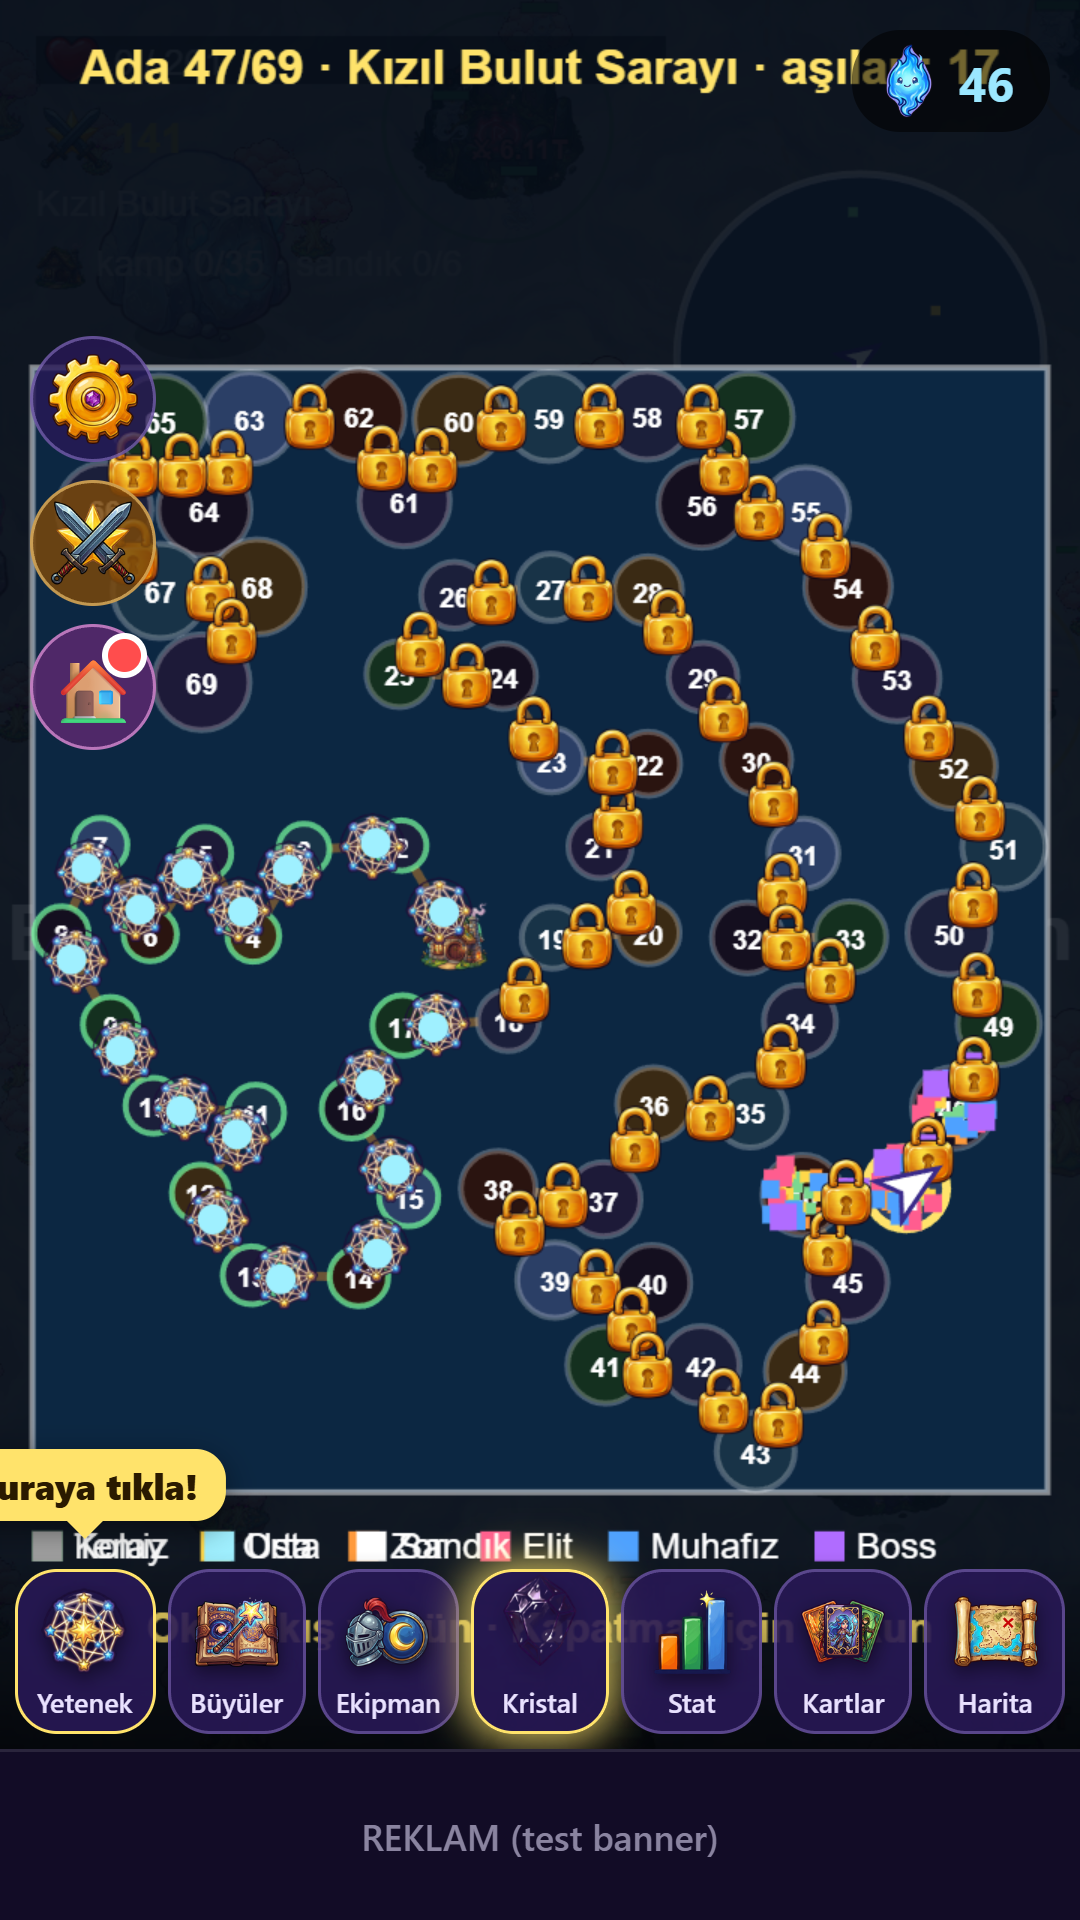
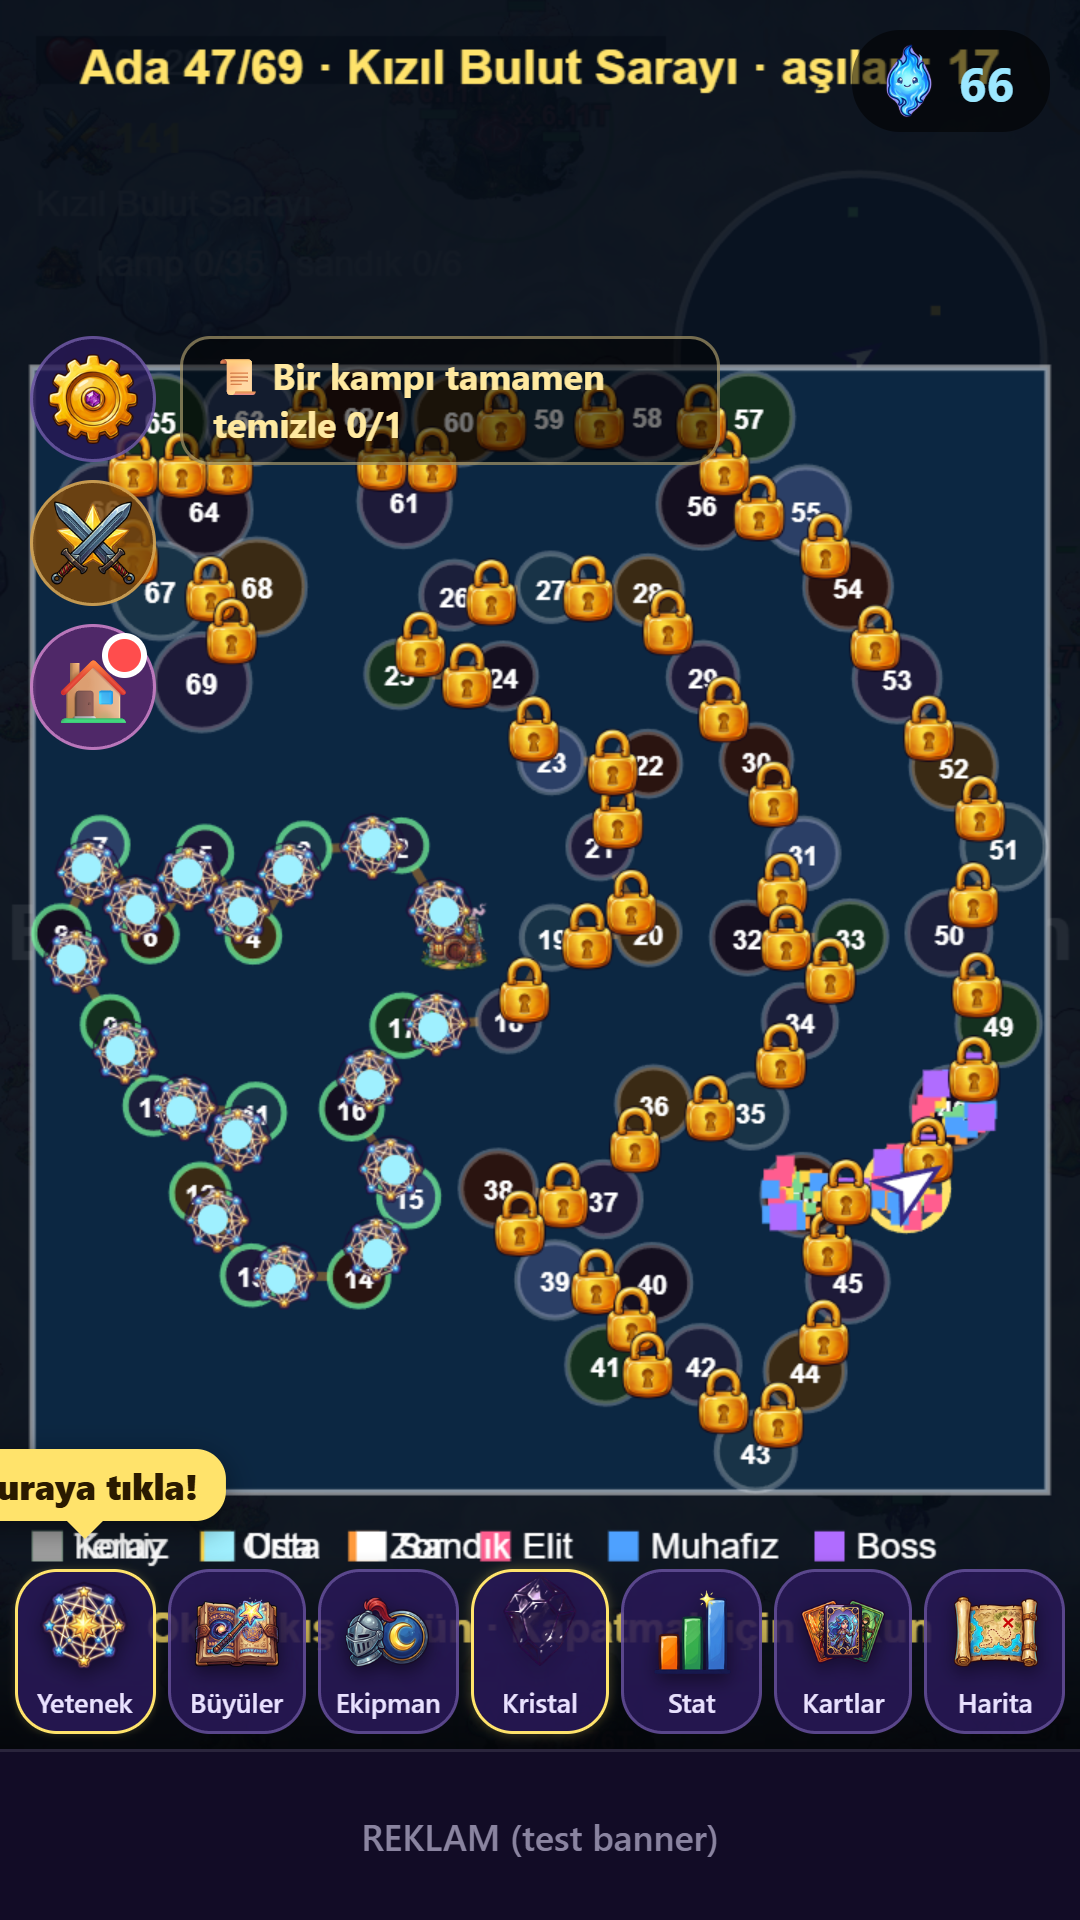
fix: yonlendirme oku dusmanin kendisini gosterir, gorev takipcisi daraldi; magaza metinleri ve ekran goruntuleri guncellendi (v0.14.2)

diff --git a/index.html b/index.html
@@ -90,7 +90,7 @@
   #btn-settings img { width: 32px; height: 32px; display: block; margin: 0 auto; }
   #btn-shop { position: fixed; left: 10px; top: 160px; width: 42px; height: 42px; padding: 4px; border-radius: 21px; background: rgba(120,70,10,.85); border: 1px solid rgba(255,210,120,.6); font-size: 22px; line-height: 1; }
   #btn-shop img { width: 30px; height: 30px; display: block; margin: 0 auto; }
-  #quest { position: fixed; left: 60px; top: 112px; max-width: 230px; z-index: 5; display: none; padding: 5px 10px; border-radius: 10px; background: rgba(0,0,0,.55); border: 1px solid rgba(255,230,160,.45); color: #ffe9a0; font-size: 12px; font-weight: 700; line-height: 1.3; cursor: pointer; }
+  #quest { position: fixed; left: 60px; top: 112px; max-width: 158px; z-index: 5; display: none; padding: 5px 10px; border-radius: 10px; background: rgba(0,0,0,.55); border: 1px solid rgba(255,230,160,.45); color: #ffe9a0; font-size: 12px; font-weight: 700; line-height: 1.3; cursor: pointer; }
   #btn-house { position: fixed; left: 10px; top: 208px; width: 42px; height: 42px; padding: 4px; border-radius: 21px; background: rgba(90,40,110,.85); border: 1px solid rgba(255,170,240,.6); font-size: 22px; line-height: 1; }
   #btn-house[data-badge="1"]::after { content: ''; position: absolute; right: 2px; top: 2px; width: 11px; height: 11px; border-radius: 50%; background: #ff4d4d; border: 2px solid #fff; }
   /* açılış ekranı */

diff --git a/dist/game.js b/dist/game.js
@@ -2965,7 +2965,23 @@ export class Game {
                 }
             }
             const pick = best ?? weak;
-            return pick ? { x: pick.x, y: pick.y, label: 'Sıradaki düşman', color: best ? '#7bff9a' : '#ffb36b' } : null;
+            if (!pick)
+                return null;
+            // okun gösterdiği yer kampın evi değil, kampın canlı düşmanının kendisi (en yakını); henüz sahaya çıkmadıysa kamp noktası
+            let tx = pick.x;
+            let ty = pick.y;
+            let ed = Infinity;
+            for (const e of this.enemies) {
+                if (e.sp !== pick.id || e.hp <= 0)
+                    continue;
+                const d = Math.hypot(e.x - this.px, e.y - this.py);
+                if (d < ed) {
+                    ed = d;
+                    tx = e.x;
+                    ty = e.y;
+                }
+            }
+            return { x: tx, y: ty, label: 'Sıradaki düşman', color: best ? '#7bff9a' : '#ffb36b' };
         }
         if (reg < last) {
             if (this.passedGate(reg))

diff --git a/src/game.ts b/src/game.ts
@@ -2578,7 +2578,17 @@ export class Game {
         if (d < bd) { bd = d; best = s; }
       }
       const pick = best ?? weak;
-      return pick ? { x: pick.x, y: pick.y, label: 'Sıradaki düşman', color: best ? '#7bff9a' : '#ffb36b' } : null;
+      if (!pick) return null;
+      // okun gösterdiği yer kampın evi değil, kampın canlı düşmanının kendisi (en yakını); henüz sahaya çıkmadıysa kamp noktası
+      let tx = pick.x;
+      let ty = pick.y;
+      let ed = Infinity;
+      for (const e of this.enemies) {
+        if (e.sp !== pick.id || e.hp <= 0) continue;
+        const d = Math.hypot(e.x - this.px, e.y - this.py);
+        if (d < ed) { ed = d; tx = e.x; ty = e.y; }
+      }
+      return { x: tx, y: ty, label: 'Sıradaki düşman', color: best ? '#7bff9a' : '#ffb36b' };
     }
     if (reg < last) {
       if (this.passedGate(reg)) return null; // kapı geçildi: ok kalkar

diff --git a/sw.js b/sw.js
@@ -1,5 +1,5 @@
 // Çevrimdışı çalışma: önce önbellek, arkada güncelle (stale-while-revalidate).
-const CACHE = 'hexling-v33';
+const CACHE = 'hexling-v34';
 const CORE = ['index.html', 'manifest.webmanifest', 'dist/main.js', 'dist/game.js', 'dist/data.js', 'dist/audio.js', 'dist/settings.js', 'dist/i18n.js', 'dist/scenery.js', 'dist/version.js', 'dist/billing.js', 'dist/ads.js', 'dist/fight.js', 'dist/house.js', 'dist/meta.js', 'dist/quests.js', 'dist/story.js', 'dist/notify.js', 'assets/manifest.json', 'assets/title_bg.jpg', 'icons/icon-192.png'];
 
 self.addEventListener('install', (e) => {

diff --git a/dist/version.js b/dist/version.js
@@ -1,4 +1,4 @@
 /** Sürüm bilgisi: açılış sayfasında ve stat sayfasında gösterilir. Her yayında güncelle. */
-export const VERSION = '0.14.1';
+export const VERSION = '0.14.2';
 export const BUILD = '2026-10-03';
 export const CODENAME = 'Yaşayan Ev';

diff --git a/src/version.ts b/src/version.ts
@@ -1,4 +1,4 @@
 /** Sürüm bilgisi: açılış sayfasında ve stat sayfasında gösterilir. Her yayında güncelle. */
-export const VERSION = '0.14.1';
+export const VERSION = '0.14.2';
 export const BUILD = '2026-10-03';
 export const CODENAME = 'Yaşayan Ev';

diff --git a/store/listing_tr.md b/store/listing_tr.md
@@ -22,29 +22,34 @@ MACERA
 • 40 ücretsiz ada, 8 farklı biyom: Mantar Ormanı, Bataklık, Buz Mağarası, Kızıl Çöl, Kristal Vadisi, Volkan, Bulut Sarayı, Gölge Diyarı.
 • 4 büyü: Yıldız Değneği, Uçan Süpürge, Kaynar İksir, Büyülü Kepçe. Hasar türleri (kesme, delme, ezme), düşman zayıflıkları ve büyü kombolarıyla (+%30 hasar) ustalaş.
 • Yetenek ağacı, kristaller, miğfer ve kalkanlar, usta cadı eğitimleri, gizli sandıklar.
-• Her 3 adada bir korkunç canavar; kale ve yapıları yıkıp kalıcı güç kazan.
-• Günlük: her boss kırık aynanın bir sayfasını açar. 69 sayfalık gizem sonunda rakip cadının kim olduğunu ortaya çıkarır.
+• Her 3 adada bir korkunç canavar. Yenilen bosslar günde bir kez 3 kat güçlü "zor boss" olarak döner, büyük ganimet bırakır.
+• Karakter kartlarını topla: her düşmanın vurduğu ve zayıf olduğu hasar türünü öğren, koleksiyon ödülleri kazan.
+• Yönlendirme oku seni sıradaki düşmana götürür; 8 adımlık başlangıç görevleri ilk dakikalarda elinden tutar.
+• Günlük: her boss kırık aynanın bir sayfasını açar, önemli anlarda animasyonlu hikâye sahneleri izlersin. 69 sayfalık gizem sonunda rakip cadının kim olduğunu ortaya çıkarır.
 
 CADI EVİ
-• Kediyi sev, bahçeni sula, iksir demle: evde yaptığın işler kalıcı güç kazandırır.
-• Kazanın sen yokken ruh biriktirir; her gün gel, giriş serin büyüdükçe ödüller artar.
+• Kediyi sev, kedi maması al ve düzenli besle, bahçeni sula, iksir demle: evde yaptığın işler kalıcı güç kazandırır.
+• Kazan sen yokken ruh biriktirir; oyun açıkken de dururken azar azar kazanırsın. Her gün gel, giriş serin büyüdükçe ödüller artar.
+• Günlük 3 görev, bildirimlerle iksirin hazır olduğunda ve kedin acıktığında haber alırsın.
 
 DÖVÜŞ ARENASI
 • Street Fighter tarzı yan görünümlü dövüş: yumruk, tekme, büyü, blok, zıplama.
 • 12 efsane cadıyı sırayla yen. Arkadaşına gölge kodunu gönder, o senin gölgenle dövüşsün.
 • Her hafta yeni kurallı meydan okuma: blok yasak, yalnız büyü, cam top, hızlı hafta.
-• Kazandıkça cadı kıyafetlerini aç.
+• Kazandıkça cadı kıyafetlerini aç; her kıyafet küçük bir bonus verir (ruh kazancı, hız, menzil, kritik, can çalma, kaçınma).
 
 FİNAL
 • Devam paketleriyle 69. adaya kadar ilerle: her yeni ada öncekinden 3 kat zor. Sonunda seninle aynı güçte, farklı renkli rakip cadıyla düello.
 
 Şeref Salonu, 5 dil (Türkçe, English, Deutsch, Français, Español), ayarlanabilir ses ve titreşim.
 
-Oyun ücretsizdir. İsteğe bağlı uygulama içi satın almalar ve reklamlar içerir: güç paketleri, 40. adadan sonrası için devam paketleri ve ödüllü videolar.
+Oyun ücretsizdir. İsteğe bağlı uygulama içi satın almalar ve reklamlar içerir: güç paketleri, 40. adadan sonrası için devam paketleri ve ödüllü videolar. Bildirimler isteğe bağlıdır.
 
-## Sürüm notları (0.13.0)
-• Yeni: Cadı Evi (kedi, bahçe, iksir, kazan, günlük seri).
-• Yeni: 69 sayfalık günlük hikâyesi, büyü kombosu.
-• Yeni: Gölge Arenası (12 efsane cadı, gölge kodu), haftalık meydan okuma, kıyafetler.
-• 29 yeni ada (41–69) ve devam paketleri; 69. adadan sonra rakip cadıyla düello.
-• Satın alma onayı düzeltildi.
+## Sürüm notları (0.14.2)
+• Yeni: kedi maması, düzenli besleme serisi, kediye isim verme.
+• Yeni: başlangıç ve günlük görevler, düşman koleksiyonu, zor boss, kıyafet bonusları.
+• Yeni: hikâye ara sahneleri ve tüm panellerde yeni görseller.
+• Yeni: bekleme geliri ve iksir/kedi/kazan bildirimleri.
+• Düzeltme: kristal geliştirme için toz artık düşmanlardan ve görevlerden gelir.
+• Düzeltme: eski kayıttaki aynı eşyalar birleşir; karakter kartlarındaki ikonlar düzeltildi.
+• Bumerang süpürge %20 küçüldü; yönlendirme oku artık düşmanın kendisini gösterir.

diff --git a/store/listing_en.md b/store/listing_en.md
@@ -20,29 +20,34 @@ ADVENTURE
 • 40 free islands across 8 biomes: Mushroom Forest, Swamp, Ice Cave, Red Desert, Crystal Valley, Volcano, Cloud Palace, Shadow Realm.
 • 4 spells: Star Wand, Flying Broom, Boiling Potion, Enchanted Ladle. Master damage types (cut, pierce, smash), enemy weaknesses and spell combos (+30% damage).
 • Skill tree, crystals, helmets and shields, master witch training, hidden chests.
-• A fearsome beast every 3 islands; destroy castles and structures for permanent power.
-• Journal: every boss unlocks a page of the broken mirror. A 69-page mystery reveals who the rival witch really is.
+• A fearsome beast every 3 islands. Defeated bosses return once a day as 3x stronger "hard bosses" with big loot.
+• Collect character cards: learn what damage each enemy deals and is weak to, and earn collection rewards.
+• A guide arrow leads you to the next enemy; 8 starter quests hold your hand through the first minutes.
+• Journal: every boss unlocks a page of the broken mirror, with animated story scenes at key moments. A 69-page mystery reveals who the rival witch really is.
 
 WITCH HOUSE
-• Pet the cat, water the garden, brew potions: chores at home grant permanent power.
-• The cauldron collects souls while you are away; come back daily and your login streak grows the rewards.
+• Pet the cat, buy cat food and feed it regularly, water the garden, brew potions: chores at home grant permanent power.
+• The cauldron collects souls while you are away, and you earn a trickle while idle in the game. Come back daily and your login streak grows the rewards.
+• 3 daily quests, plus notifications when your potion is ready or your cat is hungry.
 
 FIGHTING ARENA
 • Street Fighter style side-view duels: punch, kick, spell, block, jump.
 • Beat 12 legendary witches in order. Send your ghost code to a friend and let them fight your shadow.
 • A new weekly challenge with special rules: no blocking, magic only, glass cannon, fast week.
-• Unlock witch outfits as you win.
+• Unlock witch outfits as you win; each outfit gives a small bonus (soul gain, speed, range, crit, lifesteal, evasion).
 
 FINALE
 • Continuation packs take you up to island 69: every new island is 3 times harder than the last. At the end, a duel against a rival witch of your own level, in a different color.
 
 Hall of Fame, 5 languages, adjustable sound and vibration.
 
-The game is free to play. It contains optional in-app purchases and ads: power packs, continuation packs for islands beyond 40, and rewarded videos.
+The game is free to play. It contains optional in-app purchases and ads: power packs, continuation packs for islands beyond 40, and rewarded videos. Notifications are optional.
 
-## Release notes (0.13.0)
-• New: Witch House (cat, garden, potion, cauldron, daily streak).
-• New: 69-page journal story, spell combos.
-• New: Shadow Arena (12 legendary witches, ghost code), weekly challenge, outfits.
-• 29 new islands (41–69) and continuation packs; duel the rival witch after island 69.
-• Purchase confirmation fixed.
+## Release notes (0.14.2)
+• New: cat food, regular feeding streak, name your cat.
+• New: starter and daily quests, enemy collection, hard bosses, outfit bonuses.
+• New: story cutscenes and new artwork across all panels.
+• New: idle income and potion/cat/cauldron notifications.
+• Fix: crystal upgrade dust now drops from enemies and quests.
+• Fix: duplicate items from old saves merge; card icons fixed.
+• Flying broom is 20% smaller; the guide arrow now points at the enemy itself.
